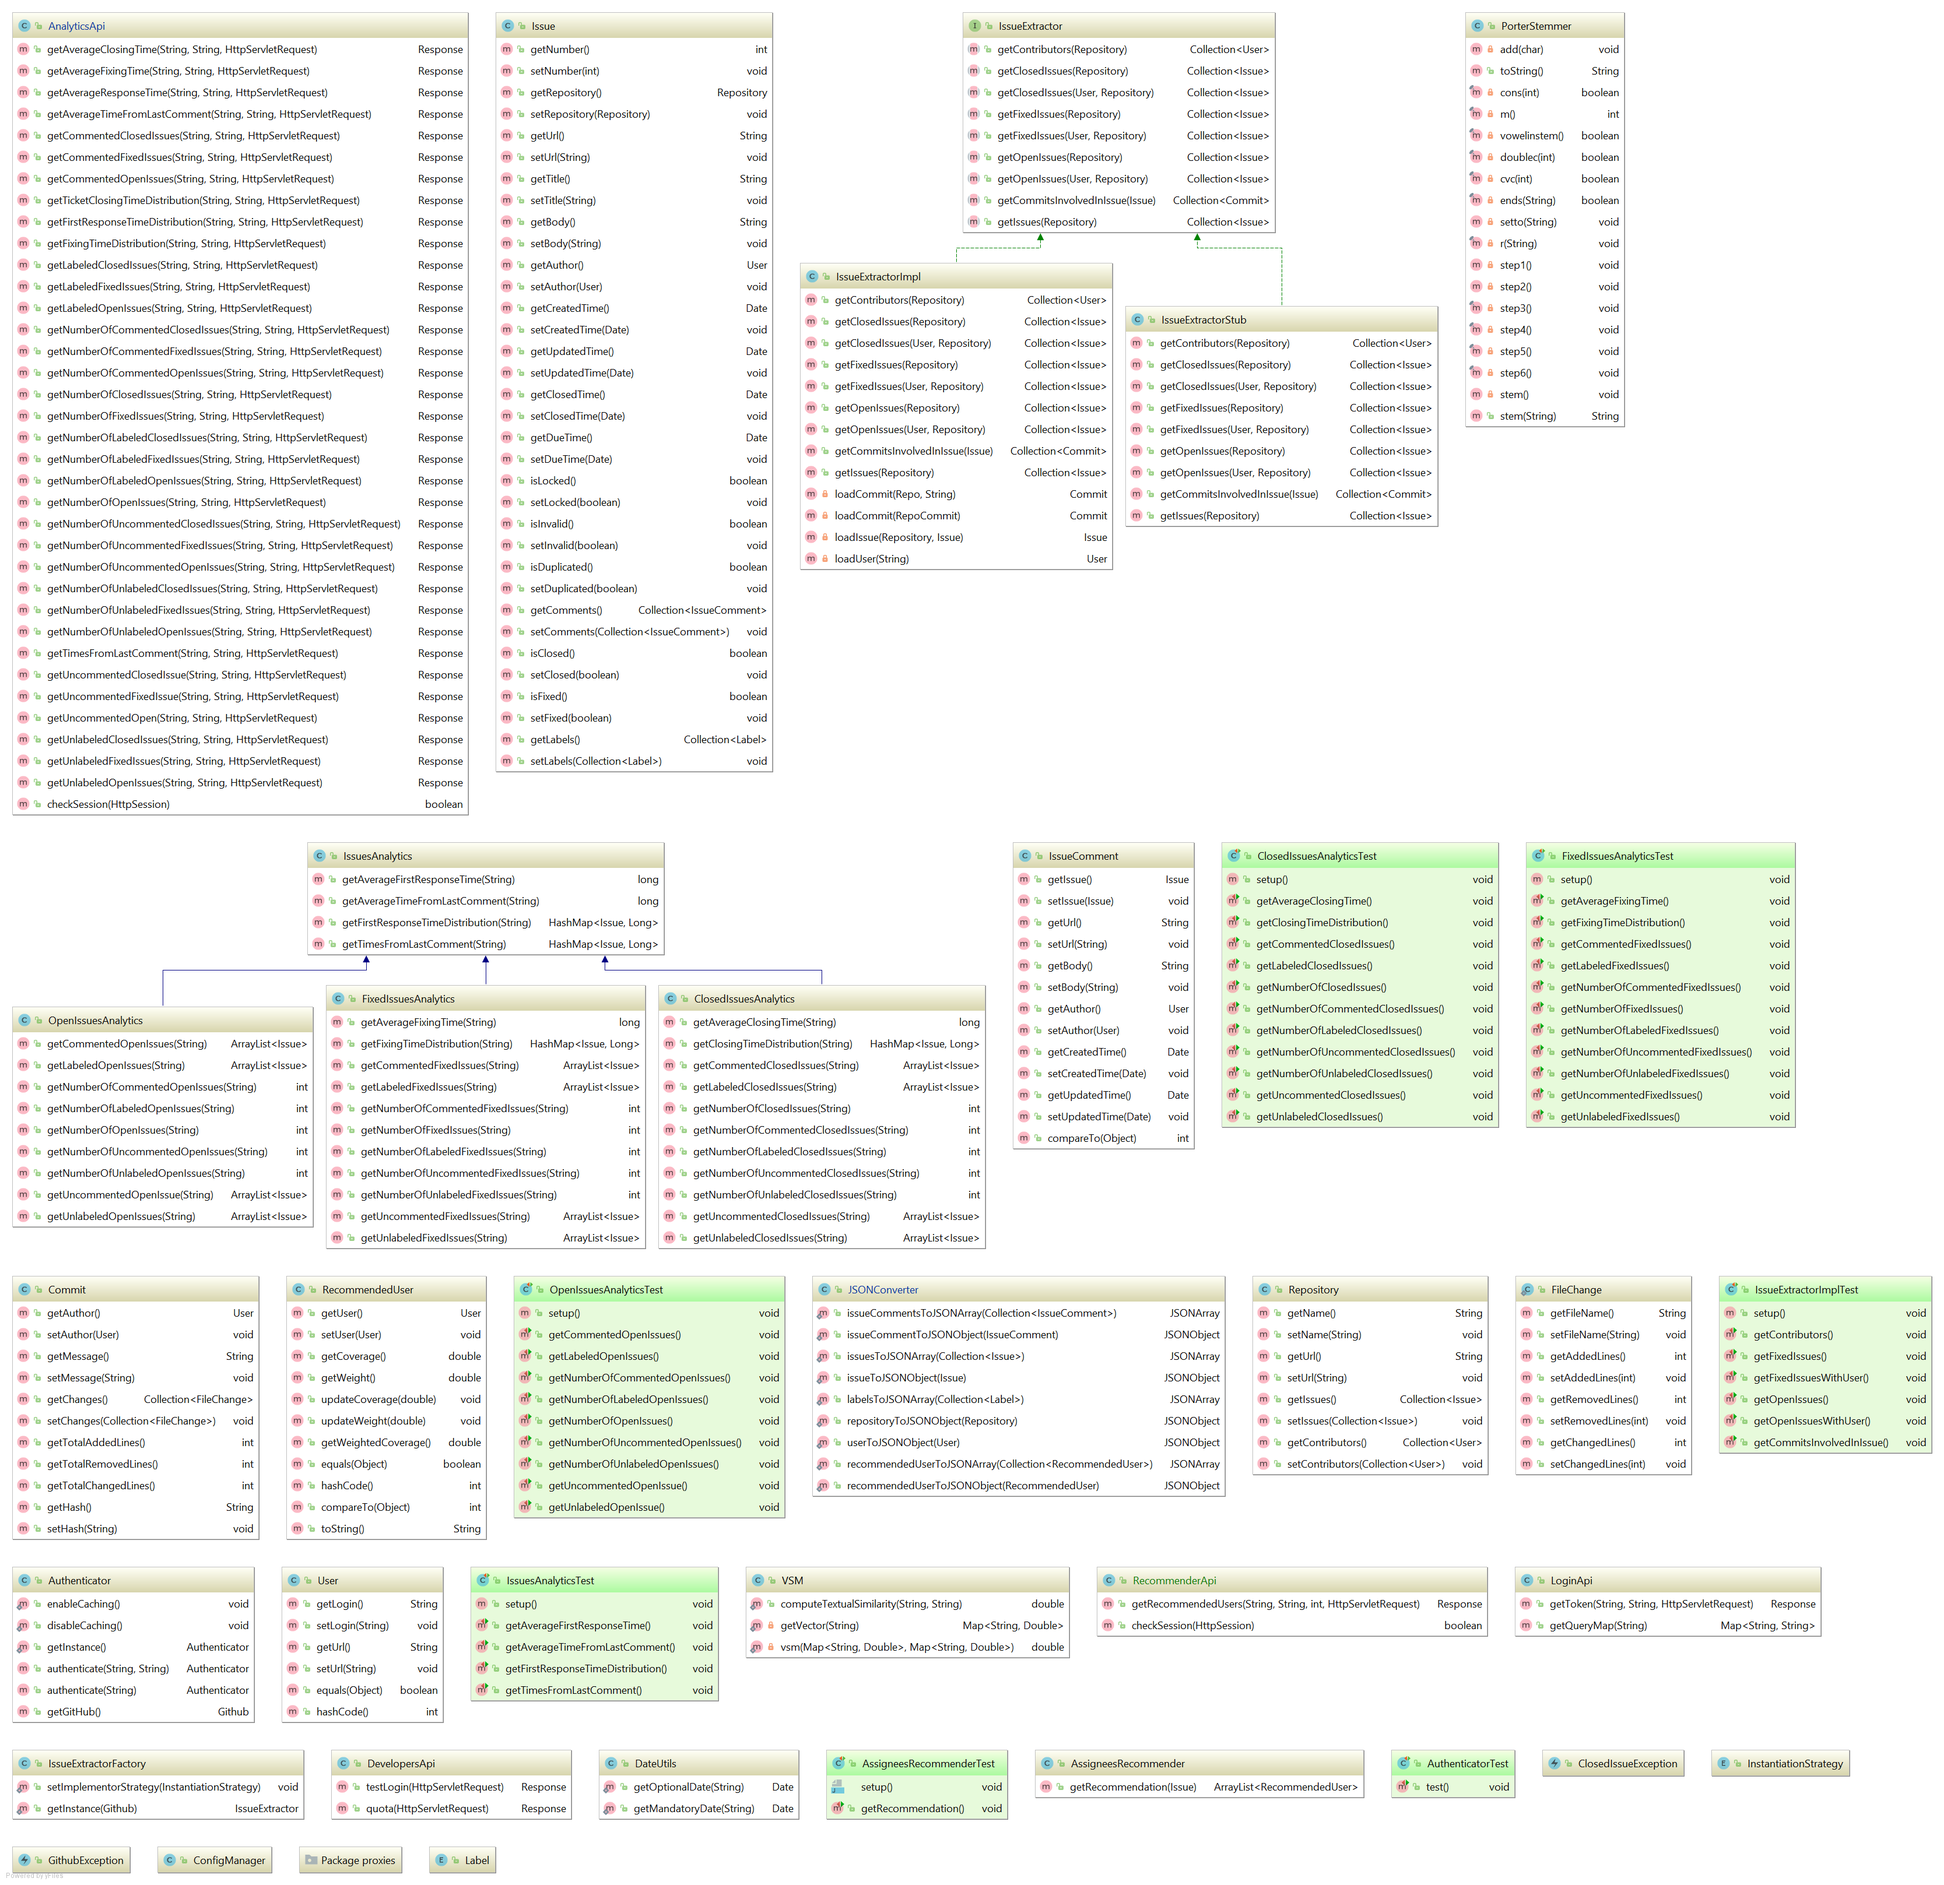
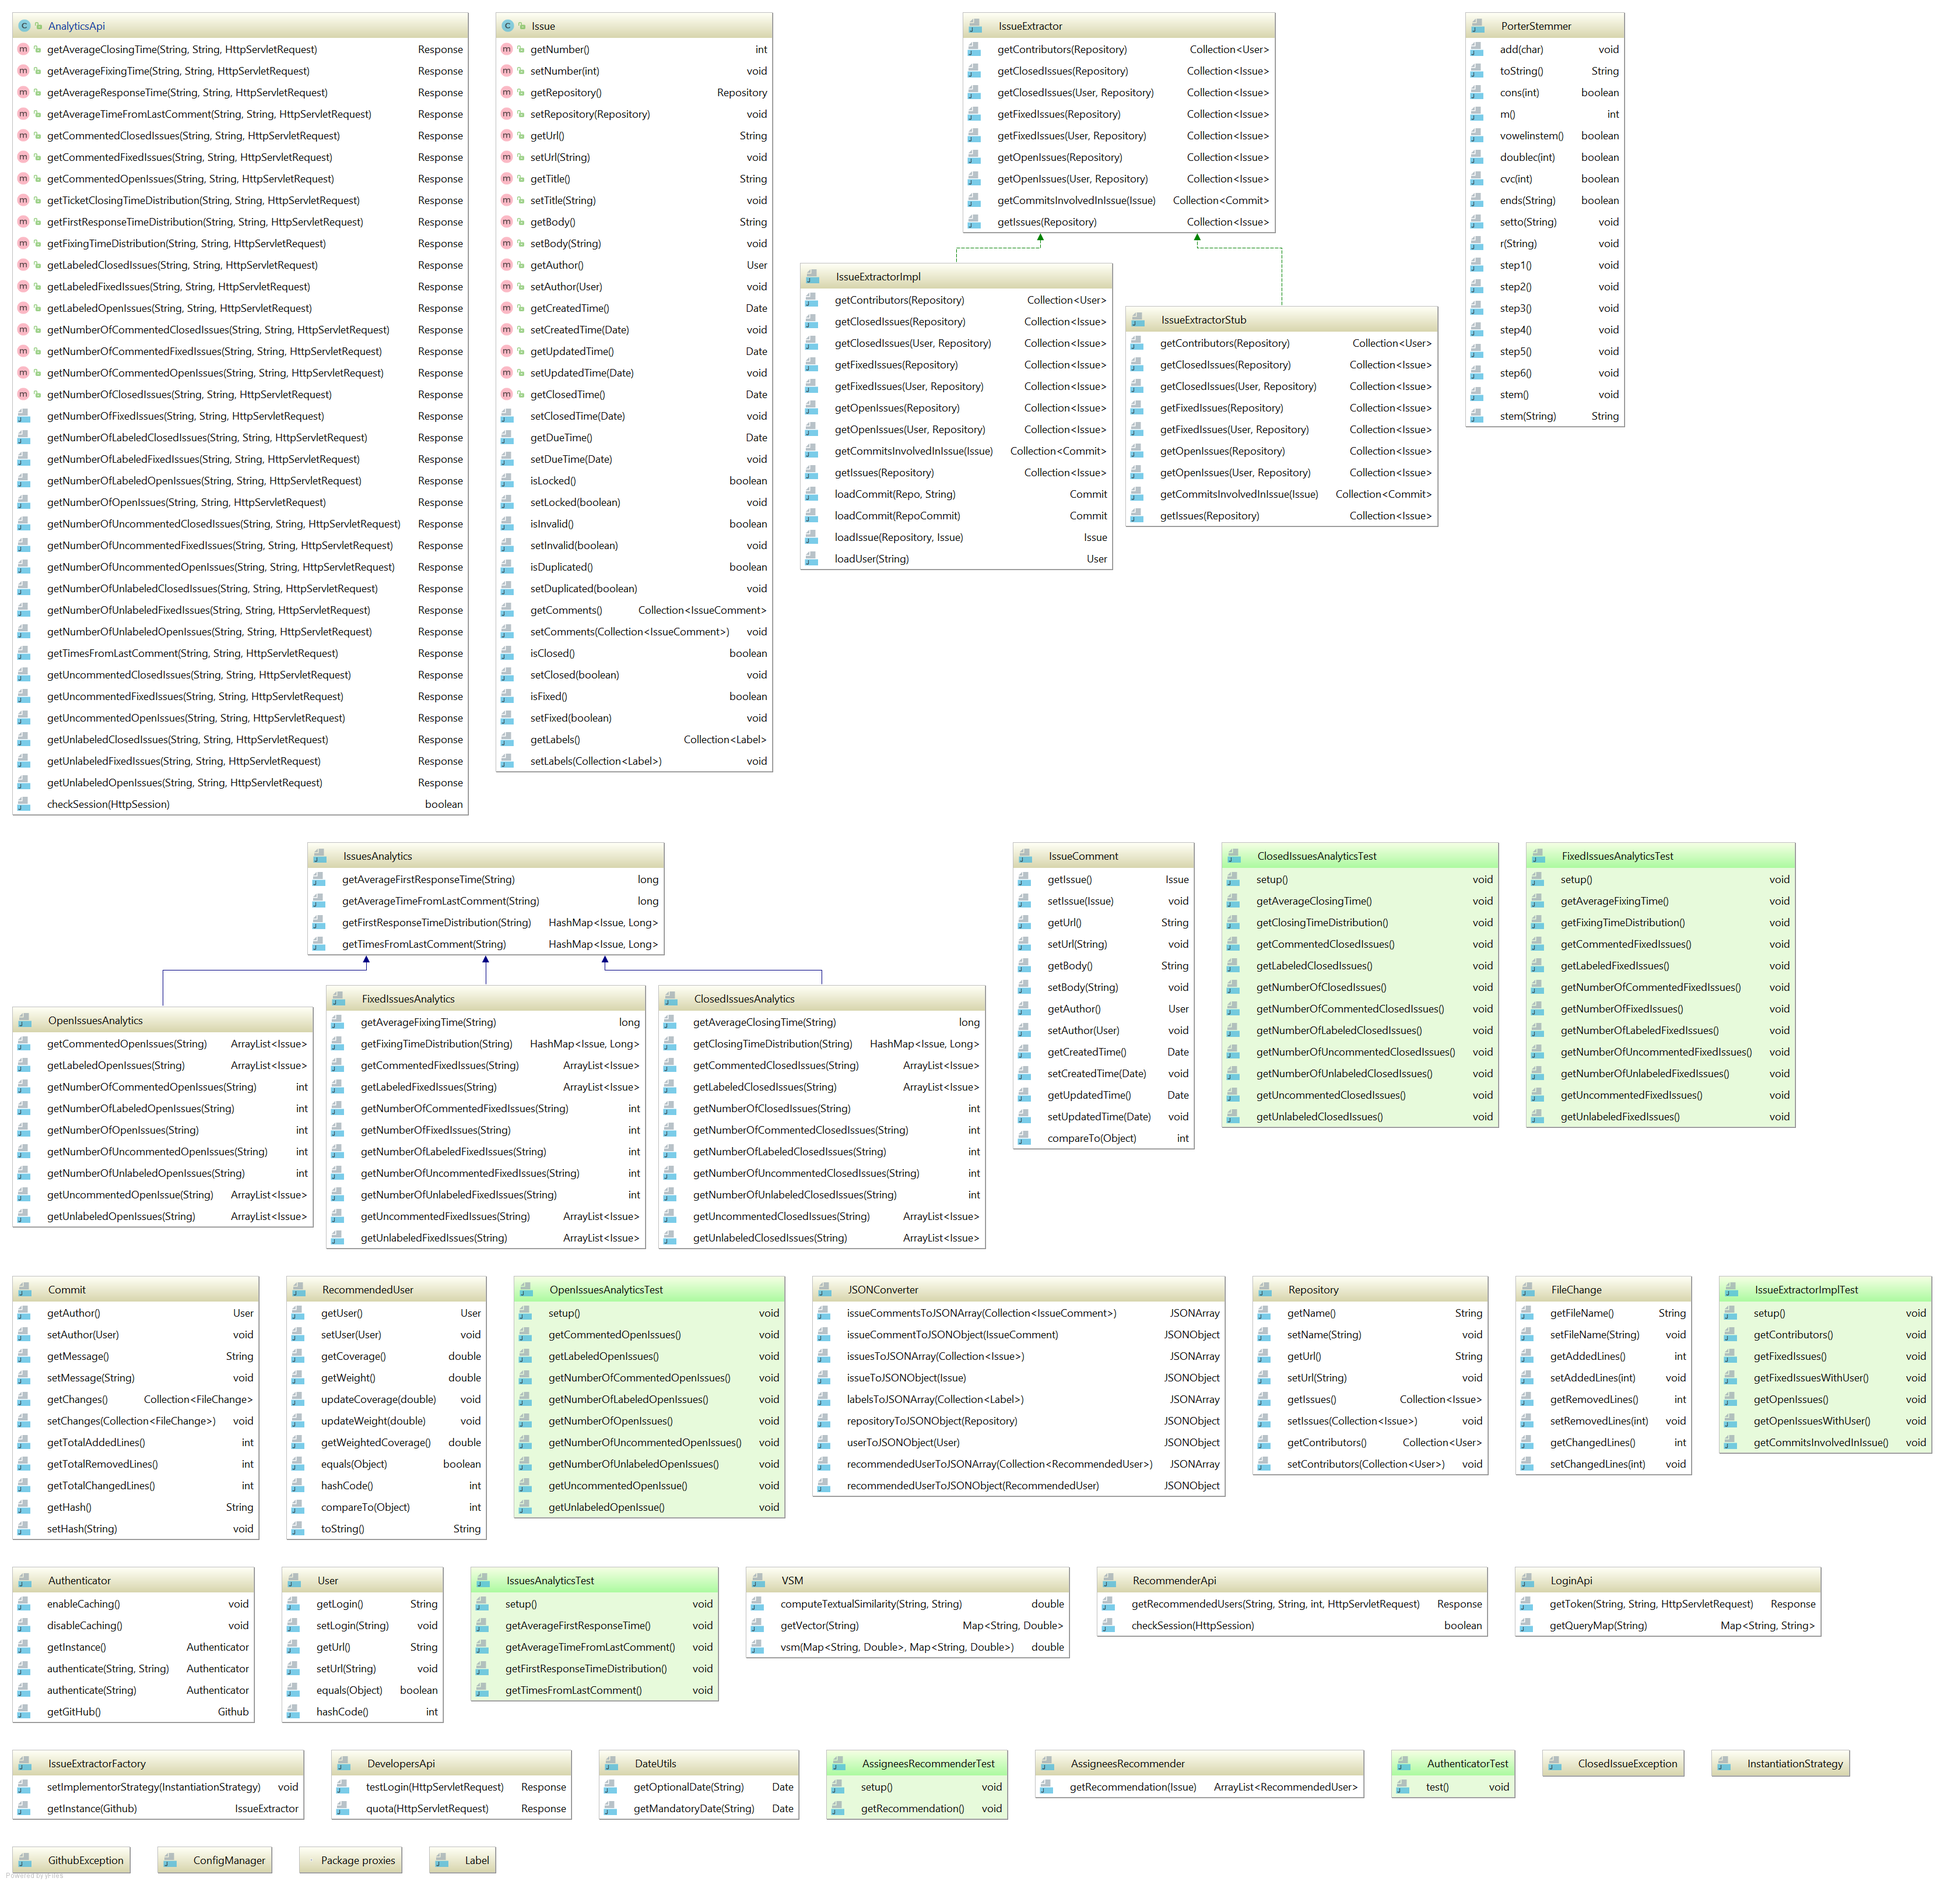
Fixed some api names

diff --git a/backend/src/main/java/it/unimol/anpr_github_metrics/services/AnalyticsApi.java b/backend/src/main/java/it/unimol/anpr_github_metrics/services/AnalyticsApi.java
@@ -764,7 +764,7 @@ public class AnalyticsApi {
     @GET
     @Path("/uncommented-closed-issues/{login-name}/{repository-name}")
     @Produces(MediaType.APPLICATION_JSON)
-    public Response getUncommentedClosedIssue(@PathParam("repository-name") String repoPath, @PathParam("login-name") String loginName, @Context HttpServletRequest request) {
+    public Response getUncommentedClosedIssues(@PathParam("repository-name") String repoPath, @PathParam("login-name") String loginName, @Context HttpServletRequest request) {
         if (!checkSession(request.getSession())) {
             return Response.status(Response.Status.UNAUTHORIZED).build();
         }
@@ -788,7 +788,7 @@ public class AnalyticsApi {
     @GET
     @Path("/uncommented-fixed-issues/{login-name}/{repository-name}")
     @Produces(MediaType.APPLICATION_JSON)
-    public Response getUncommentedFixedIssue(@PathParam("repository-name") String repoPath, @PathParam("login-name") String loginName, @Context HttpServletRequest request) {
+    public Response getUncommentedFixedIssues(@PathParam("repository-name") String repoPath, @PathParam("login-name") String loginName, @Context HttpServletRequest request) {
         if (!checkSession(request.getSession())) {
             return Response.status(Response.Status.UNAUTHORIZED).build();
         }
@@ -811,7 +811,7 @@ public class AnalyticsApi {
     @GET
     @Path("/uncommented-open-issues/{login-name}/{repository-name}")
     @Produces(MediaType.APPLICATION_JSON)
-    public Response getUncommentedOpen(@PathParam("repository-name") String repoPath, @PathParam("login-name") String loginName, @Context HttpServletRequest request) {
+    public Response getUncommentedOpenIssues(@PathParam("repository-name") String repoPath, @PathParam("login-name") String loginName, @Context HttpServletRequest request) {
         if (!checkSession(request.getSession())) {
             return Response.status(Response.Status.UNAUTHORIZED).build();
         }
